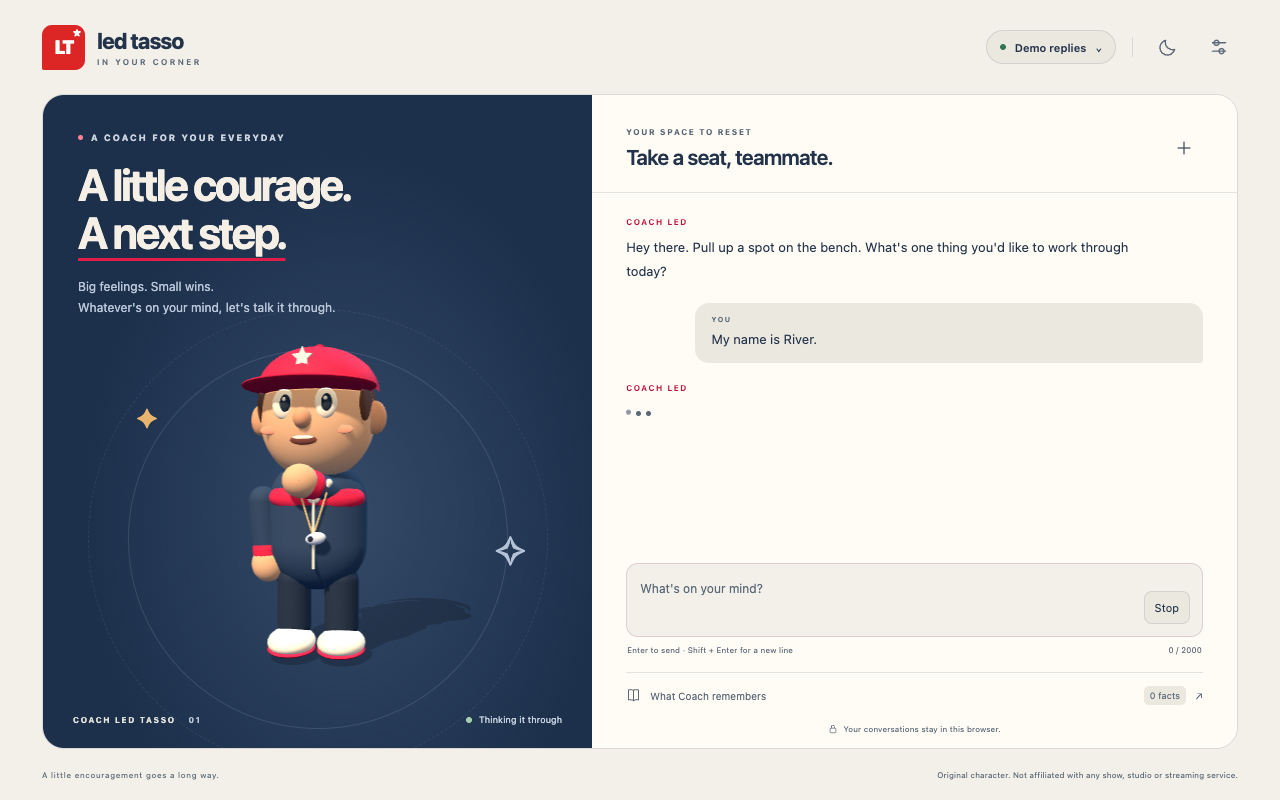
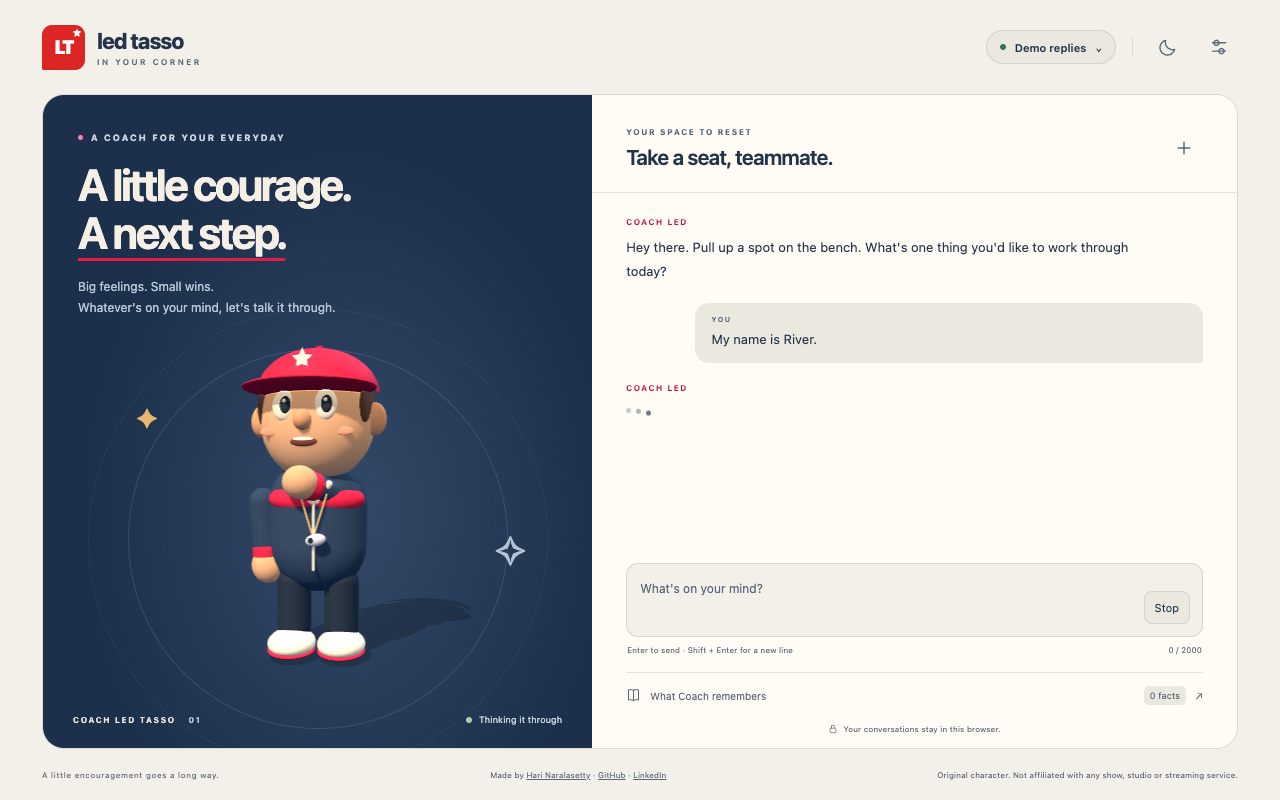
Credit Hari Naralasetty in the footer, page metadata and README
Footer adds "Made by Hari Naralasetty" with GitHub and LinkedIn links;
the page gets meta author and schema.org WebApplication author data.

Claude-Session: https://claude.ai/code/session_018Ao1j7cJk6UPfrdmfFczWw

diff --git a/site/src/main.ts b/site/src/main.ts
@@ -46,7 +46,7 @@ root.innerHTML = `
       <div id="messages" class="messages" role="region" aria-label="Conversation" tabindex="0"></div>
       <div class="chat-bottom"><div class="starters" id="starters" aria-label="Conversation starters"><button data-prompt="Can you give me a quick pep talk?">A little pep talk ${icon("arrow")}</button><button data-prompt="I'm nervous about this week.">Feeling nervous ${icon("arrow")}</button><button data-prompt="Help me pick one small goal for today.">Find my next step ${icon("arrow")}</button></div><form id="chat-form"><div class="composer"><label class="sr-only" for="message">Message Coach</label><textarea id="message" rows="2" maxlength="2000" placeholder="What's on your mind?" aria-describedby="input-hint"></textarea><button id="send" class="send-button" type="submit" aria-label="Send message" disabled>${icon("arrow")}</button><button id="stop" class="stop-button" type="button" hidden>Stop</button></div><div class="composer-note"><span id="input-hint">Enter to send <span aria-hidden="true">·</span> Shift + Enter for a new line</span><span id="char-count">0 / 2000</span></div></form><button id="memory-button" class="memory-button">${icon("book")}<span>What Coach remembers</span><span id="memory-count">0 facts</span><span aria-hidden="true">↗</span></button><p class="privacy-note">${icon("lock")} Your conversations stay in this browser.</p></div>
     </section>
-  </main><footer class="footer"><span>A little encouragement goes a long way.</span><span>Original character. Not affiliated with any show, studio or streaming service.</span></footer>
+  </main><footer class="footer"><span>A little encouragement goes a long way.</span><span class="credit">Made by <a href="https://github.com/harinaralasetty" rel="author">Hari Naralasetty</a> · <a href="https://github.com/harinaralasetty">GitHub</a> · <a href="https://www.linkedin.com/in/harinaralasetty">LinkedIn</a></span><span>Original character. Not affiliated with any show, studio or streaming service.</span></footer>
 </div>
 <p id="storage-notice" class="storage-notice" hidden></p>
 <div id="announcer" class="sr-only" role="status" aria-live="polite" aria-atomic="true"></div>

diff --git a/site/index.html b/site/index.html
@@ -1,5 +1,5 @@
 <!doctype html>
 <html lang="en" data-theme="dark">
-<head><meta charset="UTF-8"><meta name="viewport" content="width=device-width, initial-scale=1.0"><meta name="theme-color" content="#101b30"><meta name="description" content="A little courage. A next step. Talk with Coach Led Tasso, your original, encouraging coach. Try the free offline demo in your browser."><title>Led Tasso · In your corner</title><link rel="icon" type="image/svg+xml" href="./favicon.svg"></head>
+<head><meta charset="UTF-8"><meta name="viewport" content="width=device-width, initial-scale=1.0"><meta name="theme-color" content="#101b30"><meta name="description" content="A little courage. A next step. Talk with Coach Led Tasso, your original, encouraging coach. Try the free offline demo in your browser."><meta name="author" content="Hari Naralasetty"><title>Led Tasso · In your corner</title><script type="application/ld+json">{"@context":"https://schema.org","@type":"WebApplication","name":"Led Tasso","url":"https://harinaralasetty.github.io/led-tasso/","author":{"@type":"Person","name":"Hari Naralasetty","url":"https://github.com/harinaralasetty","sameAs":["https://github.com/harinaralasetty","https://www.linkedin.com/in/harinaralasetty"]}}</script><link rel="icon" type="image/svg+xml" href="./favicon.svg"></head>
 <body><div id="app"></div><script type="module" src="/src/main.ts"></script><noscript>Coach needs JavaScript. You can also use the Python terminal app from the repository.</noscript></body>
 </html>

diff --git a/site/src/style.css b/site/src/style.css
@@ -615,6 +615,10 @@ textarea::placeholder {
 .footer > span:first-child {
   letter-spacing: 0.5px;
 }
+.footer a {
+  color: inherit;
+  text-decoration: underline;
+}
 dialog {
   color: var(--text);
   border: 1px solid var(--line);

diff --git a/README.md b/README.md
@@ -1,5 +1,7 @@
 # Led Tasso
 
+By [Hari Naralasetty](https://github.com/harinaralasetty) · [GitHub](https://github.com/harinaralasetty) · [LinkedIn](https://www.linkedin.com/in/harinaralasetty).
+
 A chat with Coach Led Tasso, an original, encouraging small-town coach who remembers you, in your browser or terminal.
 
 ## Try it in your browser
